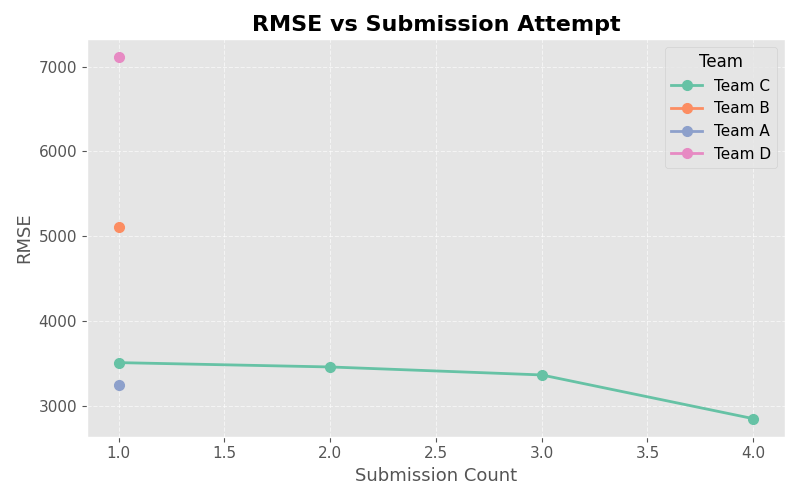
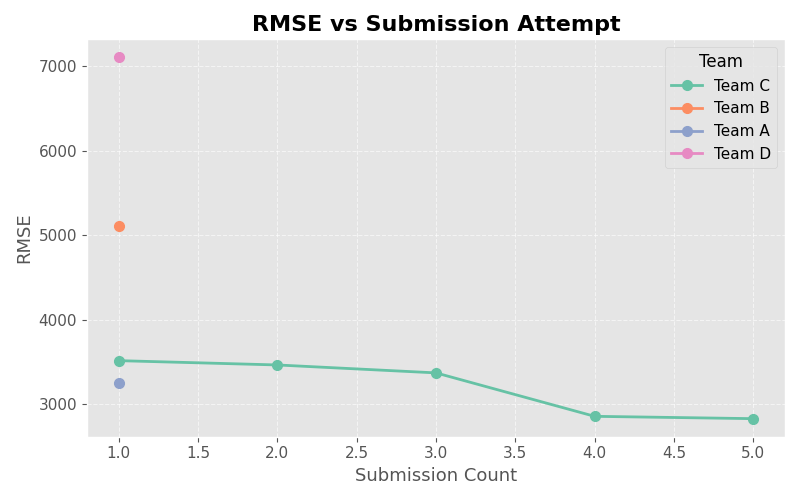
Ranking updated — 2025-06-13

diff --git a/README.md b/README.md
@@ -3,13 +3,13 @@
 
 | 순위 | 팀 이름 |   RMSE   |
 |------|--------|----------|
-| 1    | 팀 C    | 2853.388 |
+| 1    | 팀 C    | 2825.721 |
 | 2    | 팀 A    | 3245.810 |
 | 3    | 팀 B    | 5105.083 |
 | 4    | 팀 D    | 7107.612 |
 
 > 🔁 가장 최근 제출 중 **가장 낮은 RMSE**만 기록됩니다.
-> ⏱ 마지막 업데이트: 2025-06-13 11:31 (KST)
+> ⏱ 마지막 업데이트: 2025-06-13 13:03 (KST)
 ![RMSE Submission Graph](rmse_submission.png)
 
 ---
